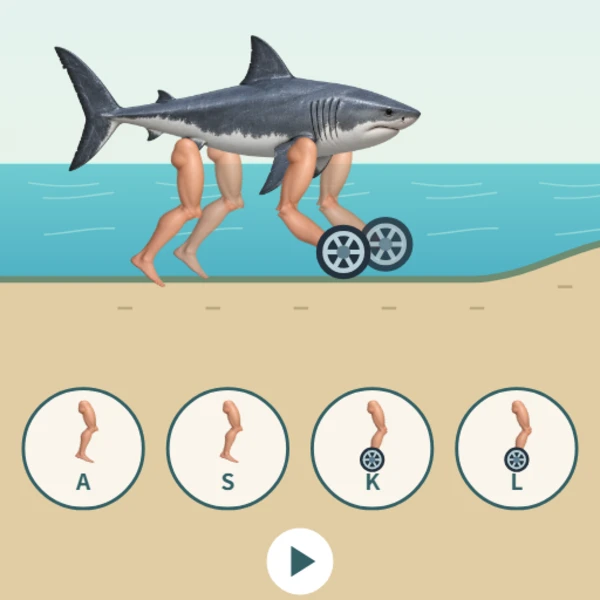
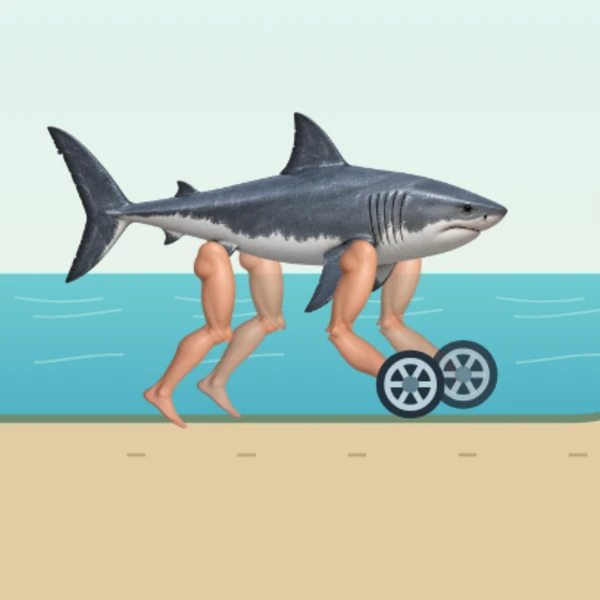
サムネイルを操作表示なしのサメ中心の構図に変更

diff --git a/games/_tools/shark-thumb.js b/games/_tools/shark-thumb.js
@@ -1,5 +1,11 @@
 /* 本体は変えず、撮影する画面だけ脚二本と車輪二個の構成にする。 */
 const fs=require('fs'),path=require('path'),read=fs.readFileSync;
-fs.readFileSync=function(file,...args){let s=read.call(fs,file,...args);if(typeof s==='string'&&/games[\\/]_?shark-walk[\\/]index\.html$/.test(String(file))){s=s.replace('leftArm:"arm",rightArm:"arm"','leftArm:"wheel",rightArm:"wheel"').replace('ctx.globalAlpha=.7;leg(1);arm(1);ctx.globalAlpha=1;','ctx.save();ctx.translate(35,-8);ctx.globalAlpha=.85;leg(1);arm(1);ctx.restore();');}return s;};
+fs.readFileSync=function(file,...args){let s=read.call(fs,file,...args);if(typeof s==='string'&&/games[\\/]_?shark-walk[\\/]index\.html$/.test(String(file))){s=s.replace('leftArm:"arm",rightArm:"arm"','leftArm:"wheel",rightArm:"wheel"').replace('ctx.globalAlpha=.7;leg(1);arm(1);ctx.globalAlpha=1;','ctx.save();ctx.translate(35,-8);ctx.globalAlpha=.85;leg(1);arm(1);ctx.restore();');s=s.replace('leg(0);arm(0);ctx.restore();','leg(0);arm(0);ctx.restore();return;');}return s;};
 process.argv=[process.argv[0],path.join(__dirname,'thumb.js'),'shark-walk','-k','なし','-t','1','--top','290','--toph','540'];
-require('./thumb');
+// 画面の中央付近を正方形で切り取り、操作列を含めない。
+const toolPath=path.join(__dirname,'thumb.js');
+const source=read.call(fs,toolPath,'utf8').replace(
+  'c.drawImage(s, 0, top.y * k, 540 * k, top.h * k, 0, 0, 600, top.h * 600 / 540);',
+  'c.drawImage(s, 15*k, (s.height/k*.64-300)*k, 430*k, 430*k, 0, 0, 600, 600);'
+);
+new Function('require','__dirname',source)(require,__dirname);
